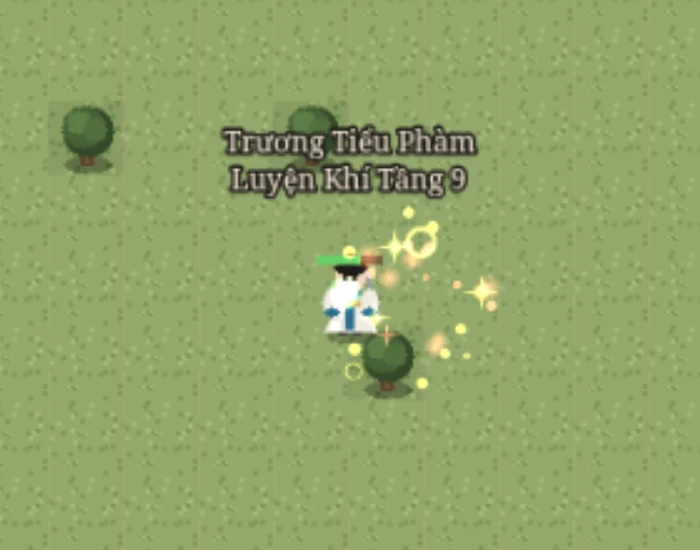
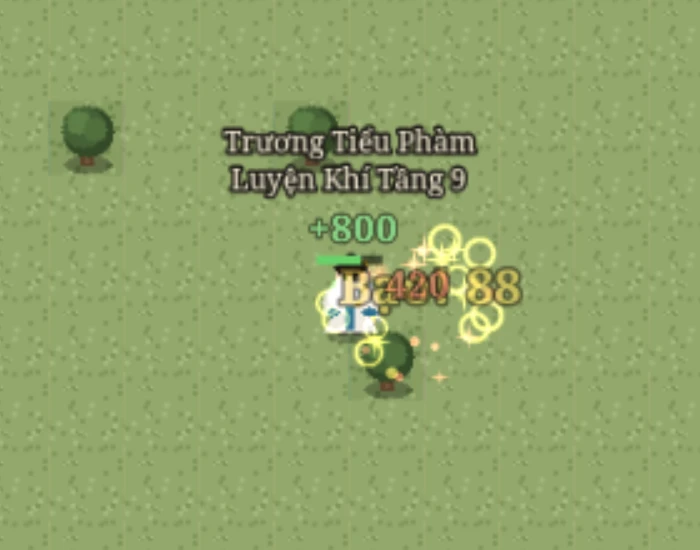
client: công thức hiệu ứng chiến đấu hoàn chỉnh đợt 1 (kiểm Chrome thật, ảnh, tài liệu 7.2b; Refs #329)

Changed region(s): [[0.42, 0.3709, 0.75, 0.7109]]

diff --git a/server/scripts/e2e-fx.ts b/server/scripts/e2e-fx.ts
@@ -2,7 +2,7 @@
 // Kiểm: atlas hạt + phông chữ bay được dựng bằng mã (kích thước trong ngân sách bộ nhớ); số HẠT SỐNG THẬT của Phaser không vượt
 // ngân sách theo bậc chất lượng (Thấp / Vừa / Cao); ưu tiên 2 (của mình) vượt được trần tới gấp đôi, ưu tiên 0 chỉ tới 60 %; ngân sách
 // được trả lại khi hạt hết thời gian sống; chữ bay bằng BitmapText không vượt `damageNumbers` và TÁI DÙNG đối tượng; giảm chuyển động giảm
-// hạt 70 %; `floatText` thật của WorldScene dùng lõi mới; đóng lõi thì không còn emitter / chữ nào; 0 lỗi console.
+// hạt 70 %; `onHitFx` thật của WorldScene dùng lõi mới; đóng lõi thì không còn emitter / chữ nào; 0 lỗi console.
 // Chạy: `npm run build && npm run e2e:fx -w server` (cần google-chrome).
 import { spawn, execSync, type ChildProcess } from "node:child_process";
 import { existsSync, mkdtempSync } from "node:fs";
@@ -273,20 +273,20 @@ async function main() {
       `5 đợt × 28 chữ: không tạo thêm đối tượng nào (tái dùng pool, ${created1} đối tượng cho cả phiên)`,
     );
 
-    // floatText thật của WorldScene (đường sát thương) dùng lõi mới; chữ của mình bị đánh (ưu tiên 2) thay chữ cũ khi đầy
+    // onHitFx thật của WorldScene (đường sát thương) dùng lõi mới; chữ của mình bị đánh (ưu tiên 2) thay chữ cũ khi đầy
     await fx(
       `(() => { for (let i = 0; i < 28; i++) fx.floatNumber('1', 0, 0, { color: 0xffffff, size: 15 }); return 1; })()`,
     );
     const before2 = await fx(`fx.stats().floatsActive`);
     await T.ev(
-      `(() => { const s = window.__scene; s.floatText({ target: s.sid, amount: 77, x: s.predX, y: s.predY - 20, crit: true, toPlayer: true }); })(); 1`,
+      `(() => { const s = window.__scene; s.onHitFx({ target: s.sid, amount: 77, x: s.predX, y: s.predY - 20, crit: true, toPlayer: true }); })(); 1`,
     );
     const after2 = await fx(`fx.stats()`);
     must(
       before2 === 28 && after2.floatsActive === 28,
       `đầy: chữ của mình thay chữ cũ, vẫn 28: ${before2} -> ${after2.floatsActive}`,
     );
-    ok("floatText thật (mình bị đánh, 'Bạo! 77') dùng lõi mới; đầy thì thay chữ cũ nhất");
+    ok("onHitFx thật (mình bị đánh, 'Bạo! 77') dùng lõi mới; đầy thì thay chữ cũ nhất");
     const label = await T.ev(
       `window.__scene.children.list.filter((c) => c.type === 'BitmapText' && c.visible).map((c) => c.text).filter((t) => t.includes('Bạo')).pop()`,
     );

diff --git a/docs/THIET_KE_GIAO_DIEN_DO_HOA.md b/docs/THIET_KE_GIAO_DIEN_DO_HOA.md
@@ -181,6 +181,12 @@ Quy tắc MỚI viết theo thuộc tính (`html[data-form="phone"] ...`). Mỗi
 | Thế giới | cổng truyền tống xoáy; vào / ra bí cảnh; rơi đồ lấp lánh theo độ hiếm; nhặt đồ |
 | Chuyển cảnh | mờ / mống mắt 300-500 ms khi qua cổng và vào bí cảnh; bỏ qua được; giảm chuyển động -> mờ dần |
 
+### 7.2b Công thức đã làm (B, #329)
+- **Cách thêm:** mảng dữ liệu theo nhóm ở `gfx/fx/recipes-<nhóm>.ts` (chỉ kiểu, KHÔNG import `registerRecipe` để khỏi vòng import), `recipes.ts` đăng ký mảng đó. Logic chọn công thức từ sự kiện nằm ở hàm thuần cạnh đó (`combat-fx.ts`), `WorldScene` chỉ gọi; không thêm nhánh `if` theo loại hiệu ứng.
+- **Chiến đấu (đợt 1):** `hit-spark` (thường), `hit-crit`, `hit-heavy` (chí mạng hoặc >= 15 % khí huyết tối đa của mục tiêu; rung nhẹ 0,004 / 110 ms), `hurt-self` / `hurt-heavy` (mình bị đánh; ưu tiên 2), `heal-glow` (khí huyết của mình tăng một bước >= 10 % tối đa: đan dược...; hồi tự nhiên từng số nguyên không qua ngưỡng), `mon-vanish` (quái biến khỏi state khi đang hiện trong khung camera). Chữ bay: thường trắng, chí mạng "Bạo!" vàng cỡ 20, đánh người chơi đỏ, hồi máu "+N" xanh.
+- **"Của mình" không cần đổi giao thức:** `DmgMsg` không có người đánh, nên đòn là của mình khi mình vừa ra đòn trong 450 ms và chỗ trúng nằm trong tầm đòn + 80 px (`isMyHit`). Suy sai chỉ khiến hạt được ưu tiên 2 / rung nhẹ, không ảnh hưởng kết quả. Rung chỉ khi ưu tiên 2 (lõi), nên người khác chí mạng gần mình KHÔNG làm màn mình rung.
+- **Kiểm:** `combat-fx.test.ts` (thuần) + `node client/scripts/check-combat-fx.mjs [--shot ảnh.webp]` (Chrome thật, chế độ mock; hạt sống THẬT, rung, chữ bay, hồi máu, quái tan, cảnh đông 120 đòn: đỉnh 270 hạt <= trần 520).
+
 ## 8. Hoạt ảnh nhân vật và quái (B làm)
 - **Tạo bằng mã**, tiếp tục `client/scripts/gen-assets.mjs` (tất định, không tệp ngoài): khung hình `đứng` (2-4), `đi` (4 hướng x 4), `đánh` (3), `bị đánh` (1-2), `gục` (4). Biến thể quái bằng màu (`tint` / bảng màu) thay vì thêm khung hình để atlas không phình (trần **2048×2048**, tổng bộ nhớ texture theo mục 10).
 - **Máy trạng thái phía client** suy từ dữ liệu đã có (vận tốc từ `px,py`, tin đánh, `hp`, `dead`); không cần đồng bộ thêm. Người ở xa cập nhật theo `farAnimHz`.
